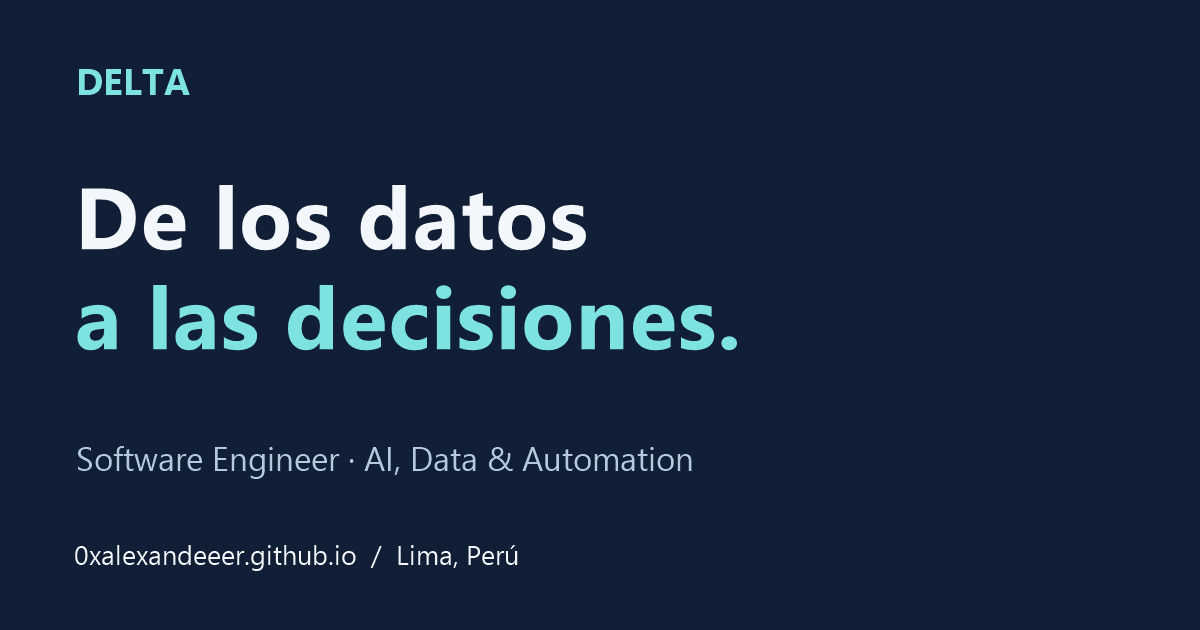
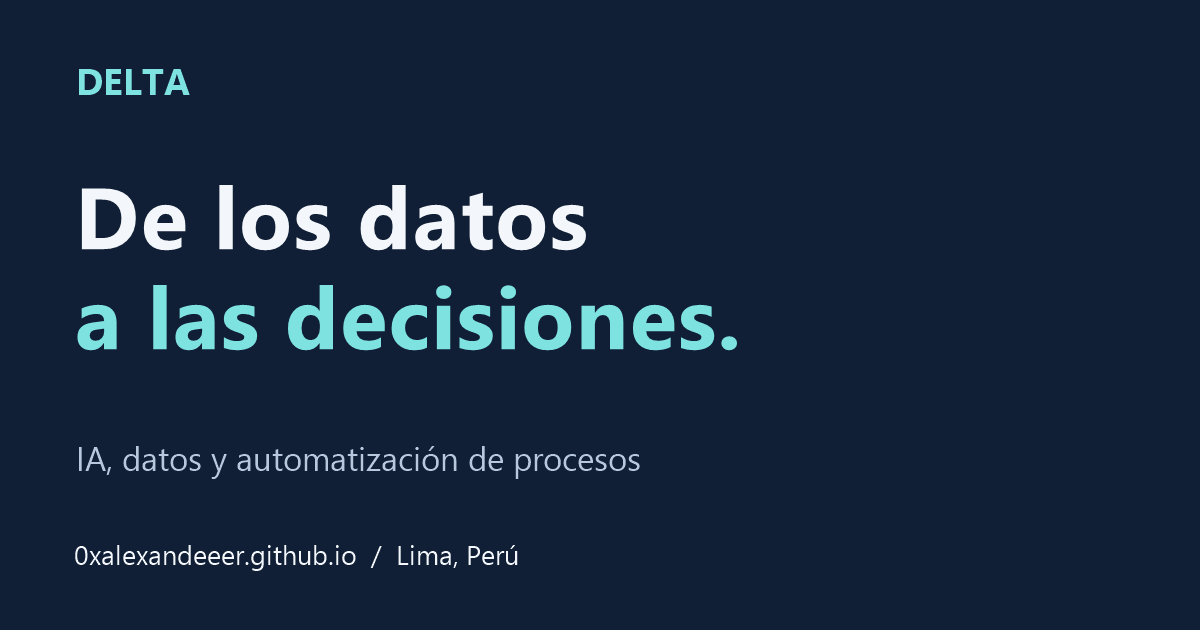
Add experience and certification verified from LinkedIn capture

Changed region(s): [[0.0617, 0.6937, 0.5858, 0.754]]

diff --git a/index.html b/index.html
@@ -3,17 +3,17 @@
 <head>
 <meta charset="utf-8"><meta name="viewport" content="width=device-width,initial-scale=1">
 <title>Delta | Software, IA y datos</title>
-<meta name="description" content="Portafolio de Delta. Software Engineer en Lima: proyectos de RAG, computación paralela, aplicaciones web y automatización.">
+<meta name="description" content="Portafolio de Delta. Ingeniería Informática, IA, datos y automatización de procesos en Lima. Proyectos, experiencia y formación.">
 <meta name="theme-color" content="#101f35"><link rel="canonical" href="https://0xalexandeeer.github.io/">
-<meta property="og:type" content="website"><meta property="og:locale" content="es_PE"><meta property="og:title" content="Delta · Software, IA y datos"><meta property="og:description" content="De los datos a las decisiones. Explora mis proyectos de software, inteligencia artificial y automatización."><meta property="og:url" content="https://0xalexandeeer.github.io/"><meta property="og:image" content="https://0xalexandeeer.github.io/assets/social-delta.png"><meta name="twitter:card" content="summary_large_image">
+<meta property="og:type" content="website"><meta property="og:locale" content="es_PE"><meta property="og:title" content="Delta · Software, IA y datos"><meta property="og:description" content="De los datos a las decisiones. Explora mis proyectos de software, inteligencia artificial y automatización."><meta property="og:url" content="https://0xalexandeeer.github.io/"><meta property="og:image" content="https://0xalexandeeer.github.io/assets/social-delta-experiencia.png"><meta name="twitter:card" content="summary_large_image">
 <link rel="icon" href="assets/favicon.svg" type="image/svg+xml"><link rel="stylesheet" href="styles.css">
 </head>
 <body>
 <a class="skip" href="#contenido">Saltar al contenido</a>
-<header class="header wrap"><a class="brand" href="#inicio" aria-label="Delta, inicio">δ<span>.</span><span class="brand-name">DELTA</span></a><nav aria-label="Principal"><a href="#proyectos">Proyectos</a><a href="#sobre-mi">Sobre mí</a><a href="#contacto">Conectemos <span class="link-dot" aria-hidden="true"></span></a></nav></header>
+<header class="header wrap"><a class="brand" href="#inicio" aria-label="Delta, inicio">δ<span>.</span><span class="brand-name">DELTA</span></a><nav aria-label="Principal"><a href="#proyectos">Proyectos</a><a href="#experiencia">Experiencia</a><a href="#sobre-mi">Sobre mí</a><a href="#contacto">Conectemos <span class="link-dot" aria-hidden="true"></span></a></nav></header>
 <main id="contenido">
 <section class="hero wrap" id="inicio">
-<div class="hero-copy"><p class="eyebrow">SOFTWARE ENGINEER · LIMA, PERÚ</p><h1>De los datos<br>a las <em>decisiones.</em></h1><p class="intro">Soy Delta. Construyo aplicaciones inteligentes y automatizaciones que convierten información en algo útil.</p><div class="actions"><a class="button primary" href="#proyectos">Explorar proyectos</a><a class="button outline" href="https://www.linkedin.com/in/bapenaloza/">Conectar en LinkedIn</a></div><p class="hero-foot">Python · SQL · Power BI · Power Platform</p></div>
+<div class="hero-copy"><p class="eyebrow">INGENIERÍA INFORMÁTICA · LIMA, PERÚ</p><h1>De los datos<br>a las <em>decisiones.</em></h1><p class="intro">Soy Delta. Construyo aplicaciones inteligentes y automatizaciones que convierten información en algo útil.</p><div class="actions"><a class="button primary" href="#proyectos">Explorar proyectos</a><a class="button outline" href="https://www.linkedin.com/in/bapenaloza/">Conectar en LinkedIn</a></div><p class="hero-foot">Python · SQL · Power BI · Power Platform</p></div>
 <div class="system" aria-label="Áreas de trabajo: datos, inteligencia artificial y automatización"><div class="system-top"><span>LABORATORIO PERSONAL</span><span class="code-mark">{ delta }</span></div><div class="system-map"><div class="orbit orbit-one"></div><div class="orbit orbit-two"></div><div class="core"><span>SOFTWARE</span><strong>Ideas que<br>toman forma.</strong></div><div class="node node-data"><span class="node-icon" aria-hidden="true">≋</span><div><small>ENTENDER</small><b>Datos</b></div></div><div class="node node-ai"><span class="node-icon" aria-hidden="true">✳</span><div><small>EXPLORAR</small><b>Inteligencia artificial</b></div></div><div class="node node-auto"><span class="node-icon" aria-hidden="true">⌘</span><div><small>CONECTAR</small><b>Automatización</b></div></div></div><div class="system-bottom"><span>CONSTRUIR · EXPERIMENTAR · APRENDER</span><span aria-hidden="true">▰ ▰ ▰</span></div></div>
 </section>
 <section class="projects wrap section" id="proyectos"><div class="section-head"><div><p class="eyebrow">DEL CÓDIGO A LA PRÁCTICA</p><h2>Proyectos seleccionados<span>.</span></h2></div><p>Preguntas distintas.<br>Una misma curiosidad por construir.</p></div>
@@ -22,8 +22,9 @@
 <article class="project small-project"><div class="mini-visual exchange" aria-hidden="true"><span>TeLoCambio</span><div class="exchange-art"><i>OBJETO A</i><b>⇄</b><i>OBJETO B</i></div><small>PRODUCTO WEB · INTERCAMBIO DE OBJETOS</small></div><div class="project-copy"><p class="eyebrow">DESARROLLO WEB</p><h3>Darle otra vida a un objeto.</h3><p>Prototipo web para publicar objetos y gestionar solicitudes de intercambio, con autenticación y una arquitectura de datos híbrida.</p><p class="tags">Python · Flask · MySQL · Neo4j</p><a class="text-link" href="https://github.com/0xAlexandeeer/TeLoCambio">Ver TeLoCambio</a></div></article></div>
 <div class="repository-list"><div><p class="eyebrow">MÁS CÓDIGO, MÁS CONTEXTO</p><h3>También en GitHub</h3></div><div><a href="https://github.com/0xAlexandeeer/MusicalCompilersAndAlgorithms"><strong>MusicalCompilersAndAlgorithms</strong><span>Un lenguaje musical con Python, ANTLR4 y LilyPond. Del código a partituras PDF y MIDI.</span></a><a href="https://github.com/0xAlexandeeer/0xAlexandeeer"><strong>README de perfil</strong><span>Mi presentación, stack de trabajo y líneas de aprendizaje.</span></a><a class="all-repos" href="https://github.com/0xAlexandeeer?tab=repositories">Ver todos los repositorios públicos</a></div></div>
 </section>
-<section class="about section" id="sobre-mi"><div class="wrap about-grid"><div><p class="eyebrow">INGENIERÍA CON CURIOSIDAD</p><h2>Construir.<br>Entender.<br><em>Seguir aprendiendo.</em></h2></div><div class="about-copy"><p>Soy bachiller en Ingeniería Informática por la Universidad Peruana Cayetano Heredia. Desarrollo experiencia en análisis financiero, reporting y mejora de procesos, mientras profundizo en AI Engineering.</p><p>Me interesan los LLMs, la generación aumentada por recuperación (RAG), los agentes de IA y la inteligencia artificial explicable.</p><div class="research applied"><span class="research-label">ANÁLISIS DE DATOS · ABR–AGO 2025</span><h3>Datos para la simulación clínica</h3><p>Participé como analista de datos en un estudio comparativo de dos versiones del instrumento DASH. Realicé procesamiento y análisis estadístico con R, integrando información cuantitativa y cualitativa.</p><a class="text-link" href="https://www.linkedin.com/in/bapenaloza/">Proyecto documentado en LinkedIn</a></div><div class="research"><span class="research-label">INVESTIGACIÓN EN DESARROLLO</span><h3>XaiTesis</h3><p>Un prototipo de XAI para asistir la respuesta a incidentes de ciberseguridad mediante simulación.</p></div></div></div><div class="wrap stack"><div><span>DATOS Y AUTOMATIZACIÓN</span><p>Python / SQL / Power BI<br>Power Apps / Power Automate</p></div><div><span>HERRAMIENTAS</span><p>Git / Linux</p></div><div><span>EXPLORANDO</span><p>LLMs / RAG / AI Agents / XAI</p></div></div></section>
+<section class="experience wrap section" id="experiencia"><div class="section-head"><div><p class="eyebrow">DATOS EN CONTEXTO</p><h2>Experiencia y formación<span>.</span></h2></div><p>Apoyo a procesos académicos,<br>operativos y de simulación clínica.</p></div><div class="experience-grid"><div class="roles"><article class="role"><p class="eyebrow">MAYO 2024 – DICIEMBRE 2025 · HÍBRIDO</p><h3>Practicante preprofesional de análisis de datos</h3><p class="institution">Universidad Peruana Cayetano Heredia</p><p>Apoyo en la organización, análisis y gestión de información para procesos académicos y operativos.</p><p class="tags">Análisis de datos · Implementación de KPI</p><p class="role-meta">Contrato de formación · San Martín de Porres, Perú</p></article><article class="role"><p class="eyebrow">NOVIEMBRE 2023 – FEBRERO 2024 · PRESENCIAL</p><h3>Pasante en análisis de datos</h3><p class="institution">Universidad Peruana Cayetano Heredia</p><p>Soporte tecnológico a procesos académicos y de simulación clínica. Optimización de flujos mediante automatización básica.</p><p class="tags">Python · Google Sheets</p><p class="role-meta">Contrato de formación · San Martín de Porres, Perú</p></article></div><aside class="formation" aria-label="Formación y certificación"><article><p class="eyebrow">FORMACIÓN · MARZO 2021 – JULIO 2026</p><h3>Ingeniería Informática</h3><p>Universidad Peruana Cayetano Heredia</p></article><article><p class="eyebrow">CERTIFICACIÓN · DICIEMBRE 2025</p><h3>Certified in Cybersecurity (CC)</h3><p>ISC2</p><a class="text-link" href="https://www.credly.com/users/bryan-alexander-penaloza-huaman/badges#credly">Ver credenciales en Credly</a></article></aside></div></section><section class="about section" id="sobre-mi"><div class="wrap about-grid"><div><p class="eyebrow">INGENIERÍA CON CURIOSIDAD</p><h2>Construir.<br>Entender.<br><em>Seguir aprendiendo.</em></h2></div><div class="about-copy"><p>Mi formación es en Ingeniería Informática en la Universidad Peruana Cayetano Heredia. Me enfoco en IA, datos y automatización de procesos, mientras profundizo en AI Engineering.</p><p>Me interesan los LLMs, la generación aumentada por recuperación (RAG), los agentes de IA y la inteligencia artificial explicable.</p><div class="research applied"><span class="research-label">ANÁLISIS DE DATOS · ABR–AGO 2025</span><h3>Datos para la simulación clínica</h3><p>Participé como analista de datos en un estudio comparativo de dos versiones del instrumento DASH. Realicé procesamiento y análisis estadístico con R, integrando información cuantitativa y cualitativa.</p><a class="text-link" href="https://www.linkedin.com/in/bapenaloza/">Proyecto documentado en LinkedIn</a></div><div class="research"><span class="research-label">INVESTIGACIÓN EN DESARROLLO</span><h3>XaiTesis</h3><p>Un prototipo de XAI para asistir la respuesta a incidentes de ciberseguridad mediante simulación.</p></div></div></div><div class="wrap stack"><div><span>DATOS Y AUTOMATIZACIÓN</span><p>Python / SQL / Power BI<br>Power Apps / Power Automate</p></div><div><span>HERRAMIENTAS</span><p>Git / Linux</p></div><div><span>EXPLORANDO</span><p>LLMs / RAG / AI Agents / XAI</p></div></div></section>
 <section class="contact wrap section" id="contacto"><p class="eyebrow">LA SIGUIENTE CONVERSACIÓN</p><h2>Conectemos y hablemos<br>de lo que viene<span>.</span></h2><p>Software, datos, automatización o una idea por explorar.</p><div class="actions"><a class="button primary" href="https://www.linkedin.com/in/bapenaloza/">Conectar en LinkedIn</a><a class="button outline" href="https://github.com/0xAlexandeeer">Explorar GitHub</a><a class="text-link" href="https://www.credly.com/users/bryan-alexander-penaloza-huaman/badges#credly">Ver credenciales en Credly</a></div></section>
 </main><footer class="wrap"><p>Delta</p><span>Lima, Perú · Hecho con curiosidad y código.</span><a href="#inicio">Volver al inicio</a></footer>
 </body></html>
+
 

diff --git a/styles.css b/styles.css
@@ -4,3 +4,5 @@
 .eyebrow,.project-copy .eyebrow,.repository-list .eyebrow,.research-label,.stack span,.visual-label,.mini-visual>small{font-size:.75rem}.system-top,.system-bottom,.core span,.node small,.flow span{font-size:.75rem;letter-spacing:.06em}.flow div{padding:15px 10px}.flow span{font-size:.625rem}.system-bottom{font-size:.625rem}.exchange-art i{font-size:.75rem}.brand-name{font-size:.875rem}.hero-foot,.tags{font-size:.875rem!important}
 @media(max-width:380px){.flow div{padding:12px 6px}.flow b{font-size:.875rem}.flow span{font-size:.5625rem}.system{padding:14px}.node-ai{right:-7px}.node b{font-size:.75rem}.node small{font-size:.625rem}.system-top{font-size:.625rem}}
 .applied .text-link{margin-top:18px;color:var(--cyan);font-size:.875rem}.brand{min-width:38px}
+.experience{border-top:1px solid var(--line)}.experience-grid{display:grid;grid-template-columns:1.55fr 1fr;gap:64px}.role{padding-bottom:30px;margin-bottom:30px;border-bottom:1px solid var(--line)}.role:last-child{margin-bottom:0}.role .eyebrow,.formation .eyebrow{font-size:.75rem;margin-bottom:16px}.role h3{font-size:1.65rem;margin-bottom:12px}.role p:not(.eyebrow){color:var(--muted)}.role .institution{color:var(--paper)!important;font-size:1rem}.role .tags{margin:18px 0 12px}.role-meta{font-size:.875rem;margin-bottom:0}.formation{background:var(--panel);border:1px solid var(--line);border-radius:10px;padding:30px;align-self:start}.formation article+article{border-top:1px solid var(--line);padding-top:28px;margin-top:28px}.formation h3{font-size:1.5rem}.formation p:not(.eyebrow){color:var(--muted);font-size:.95rem}.formation .text-link{font-size:.875rem}@media(max-width:760px){.experience-grid{grid-template-columns:1fr;gap:25px}.header nav{gap:12px;font-size:.75rem}.header .brand{font-size:2rem}.role h3{font-size:1.5rem}.formation{padding:25px}}@media(max-width:380px){.header nav{gap:9px;font-size:.6875rem}}
+@media(max-width:540px){.header{flex-wrap:wrap;gap:20px}.header nav{width:100%;justify-content:space-between;gap:12px;font-size:.875rem}.header .brand-name{display:inline;font-size:.875rem}.header .brand{font-size:2rem}}

diff --git a/README.md b/README.md
@@ -30,3 +30,7 @@ HTML semántico, navegación por anclas, enlace para saltar al contenido, foco v
 El nombre visible es Delta por petición del propietario. Los enlaces a GitHub, LinkedIn y Credly conservan sus destinos reales.
 
 El 22 de noviembre de 2026 se contrastó la versión pública indexada de https://pe.linkedin.com/in/bapenaloza (índice consultado con antigüedad indicada de un mes). Se incorporó la Universidad Peruana Cayetano Heredia y el proyecto DASH de abril–agosto de 2025, con participación como analista y uso de R. El extracto solo mostró el comienzo y la experiencia omitió cargos y fechas; no se añadieron afirmaciones de empleo actual, funciones ni resultados del estudio. La lectura directa de LinkedIn devolvió HTTP 999. Queda pendiente el extracto completo y la experiencia detallada actualizados que facilite el propietario.
+
+## Contraste con captura facilitada por el propietario
+
+El propietario compartió una captura autenticada de LinkedIn. Se incorporaron los dos puestos legibles en Universidad Peruana Cayetano Heredia: practicante preprofesional de análisis de datos (mayo 2024–diciembre 2025, híbrido) y pasante en análisis de datos (noviembre 2023–febrero 2024, presencial), sus funciones visibles, Python, Google Sheets e implementación de KPI. Se añadió la certificación CC de ISC2 expedida en diciembre 2025, sin ID de credencial. La educación visible abarca marzo 2021–julio 2026: se utiliza la formulación neutral Formación en Ingeniería Informática, sin afirmar un grado otorgado. El titular legible es Ingeniería Informática | IA, Datos y Automatización de Procesos. No se atribuyó el fragmento de otro empleo cuyo cargo, empresa y fechas no se veían.
